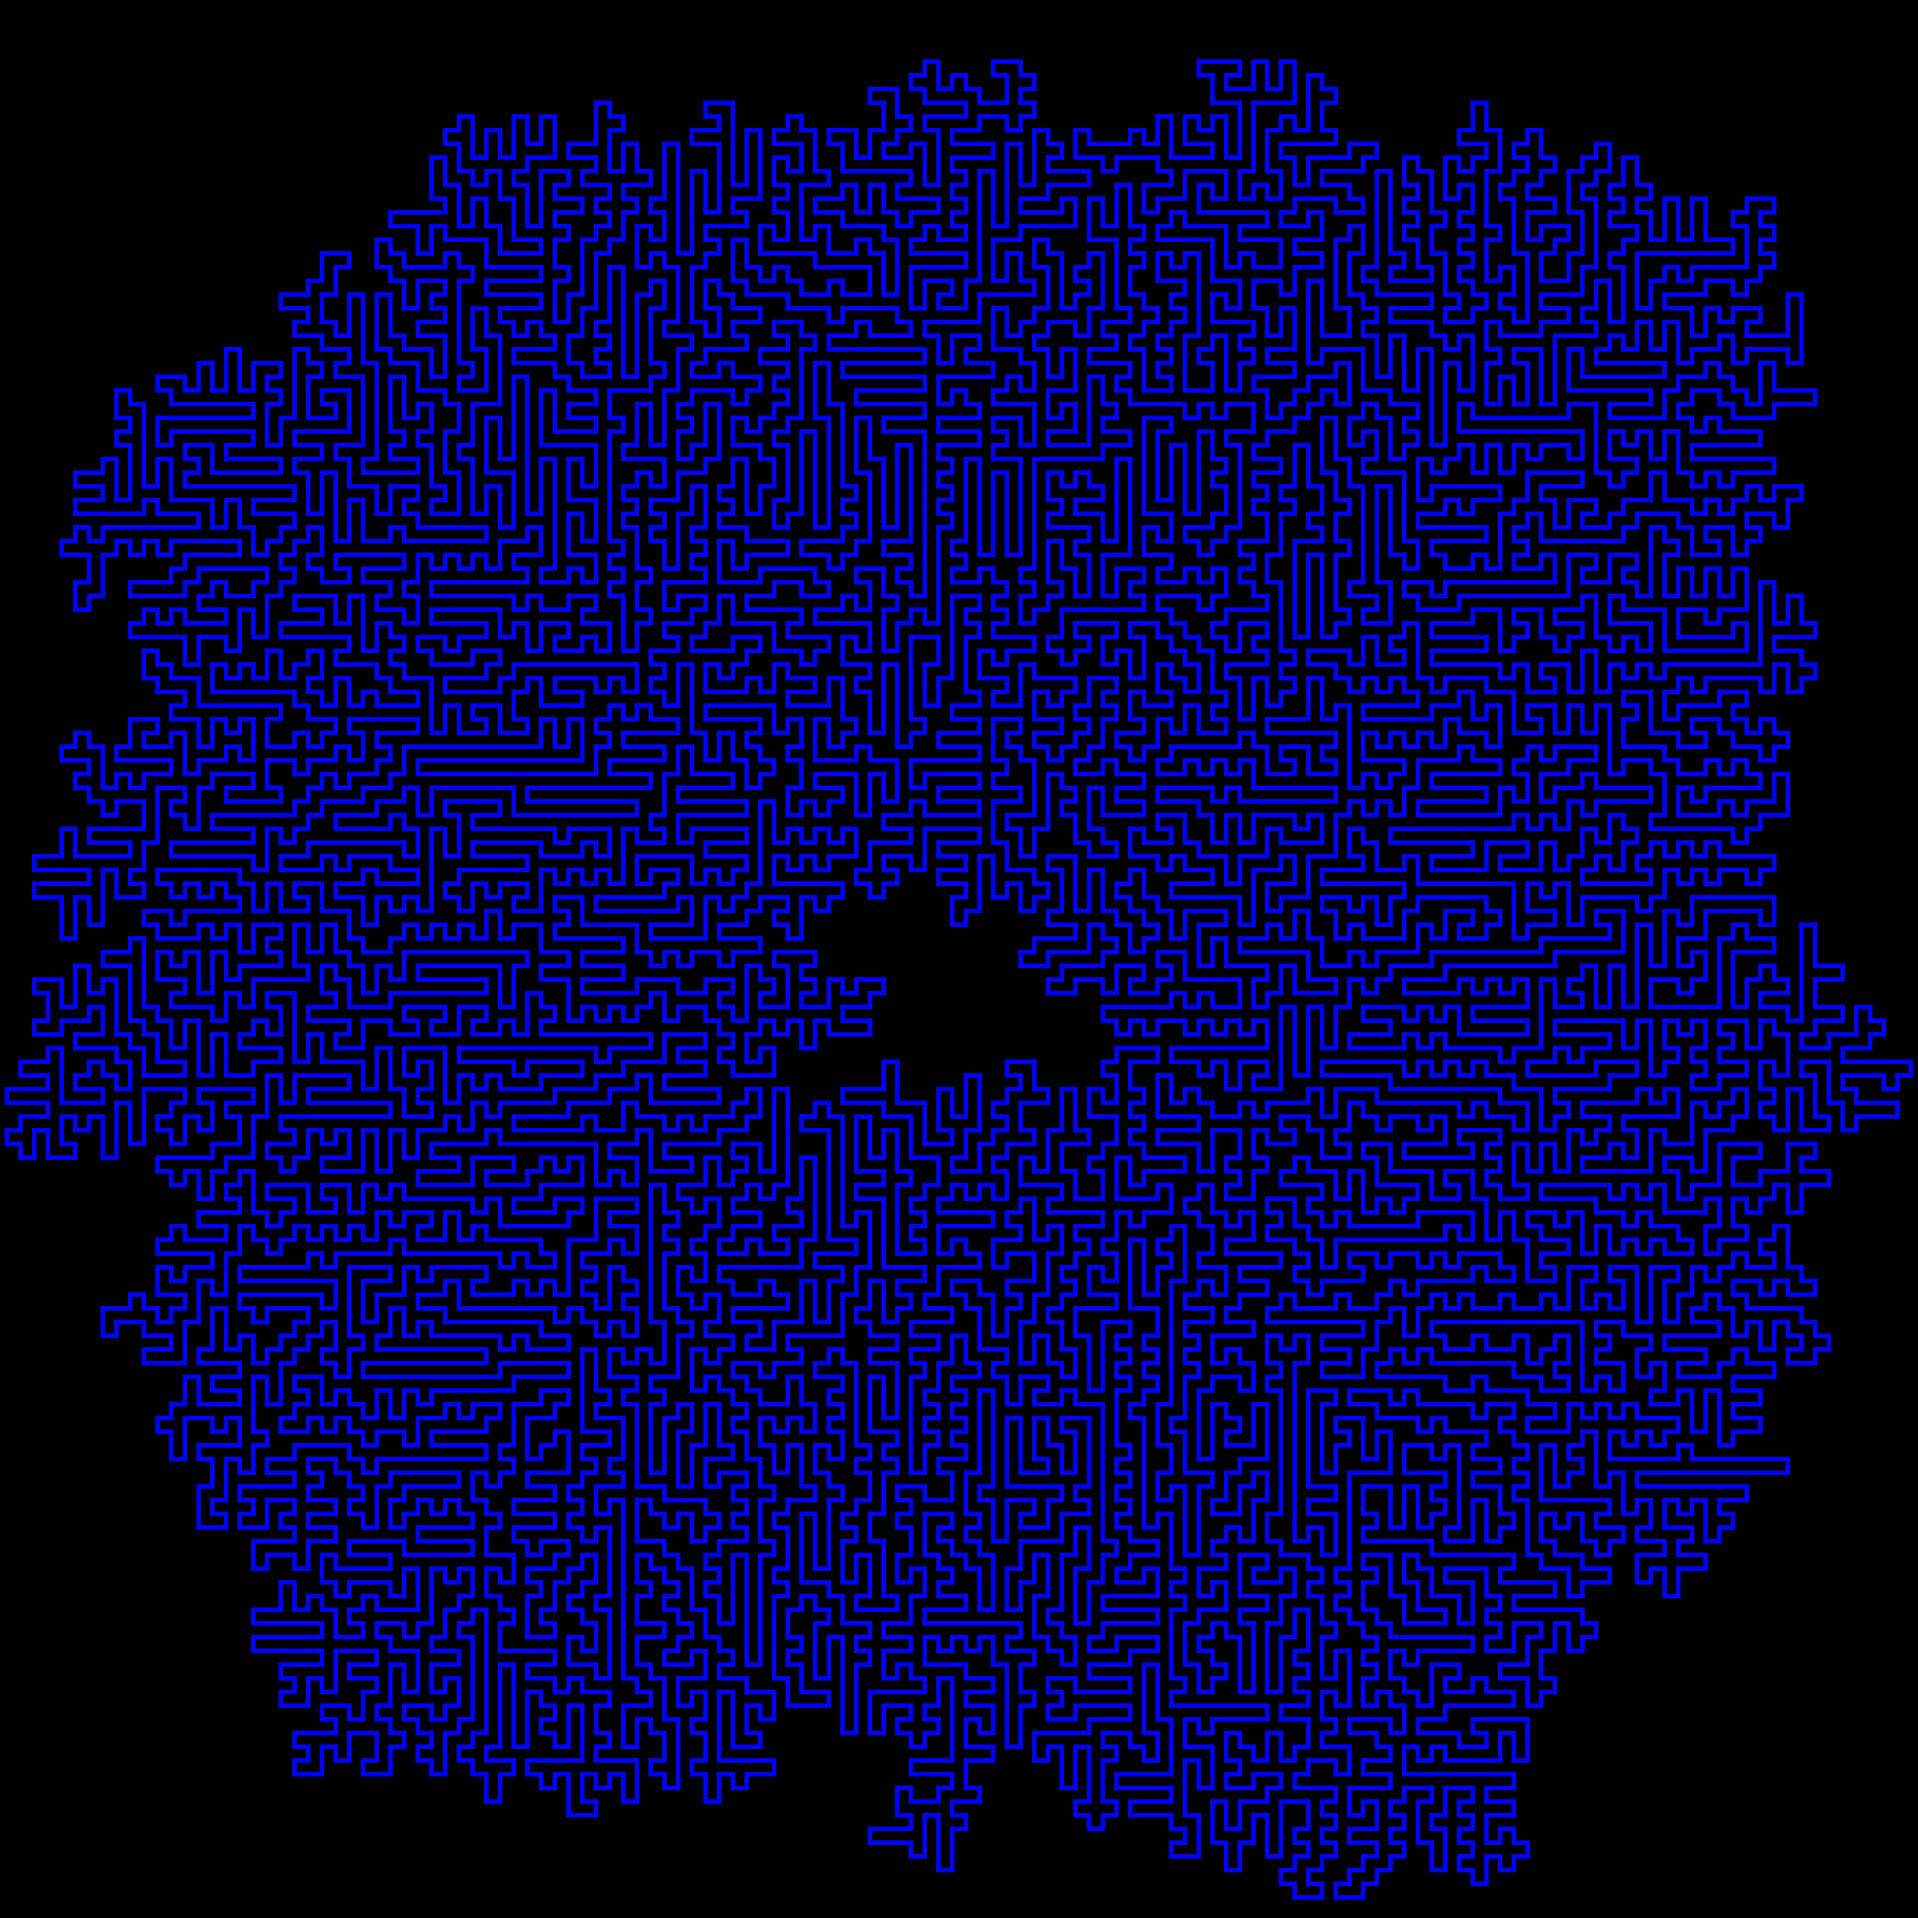
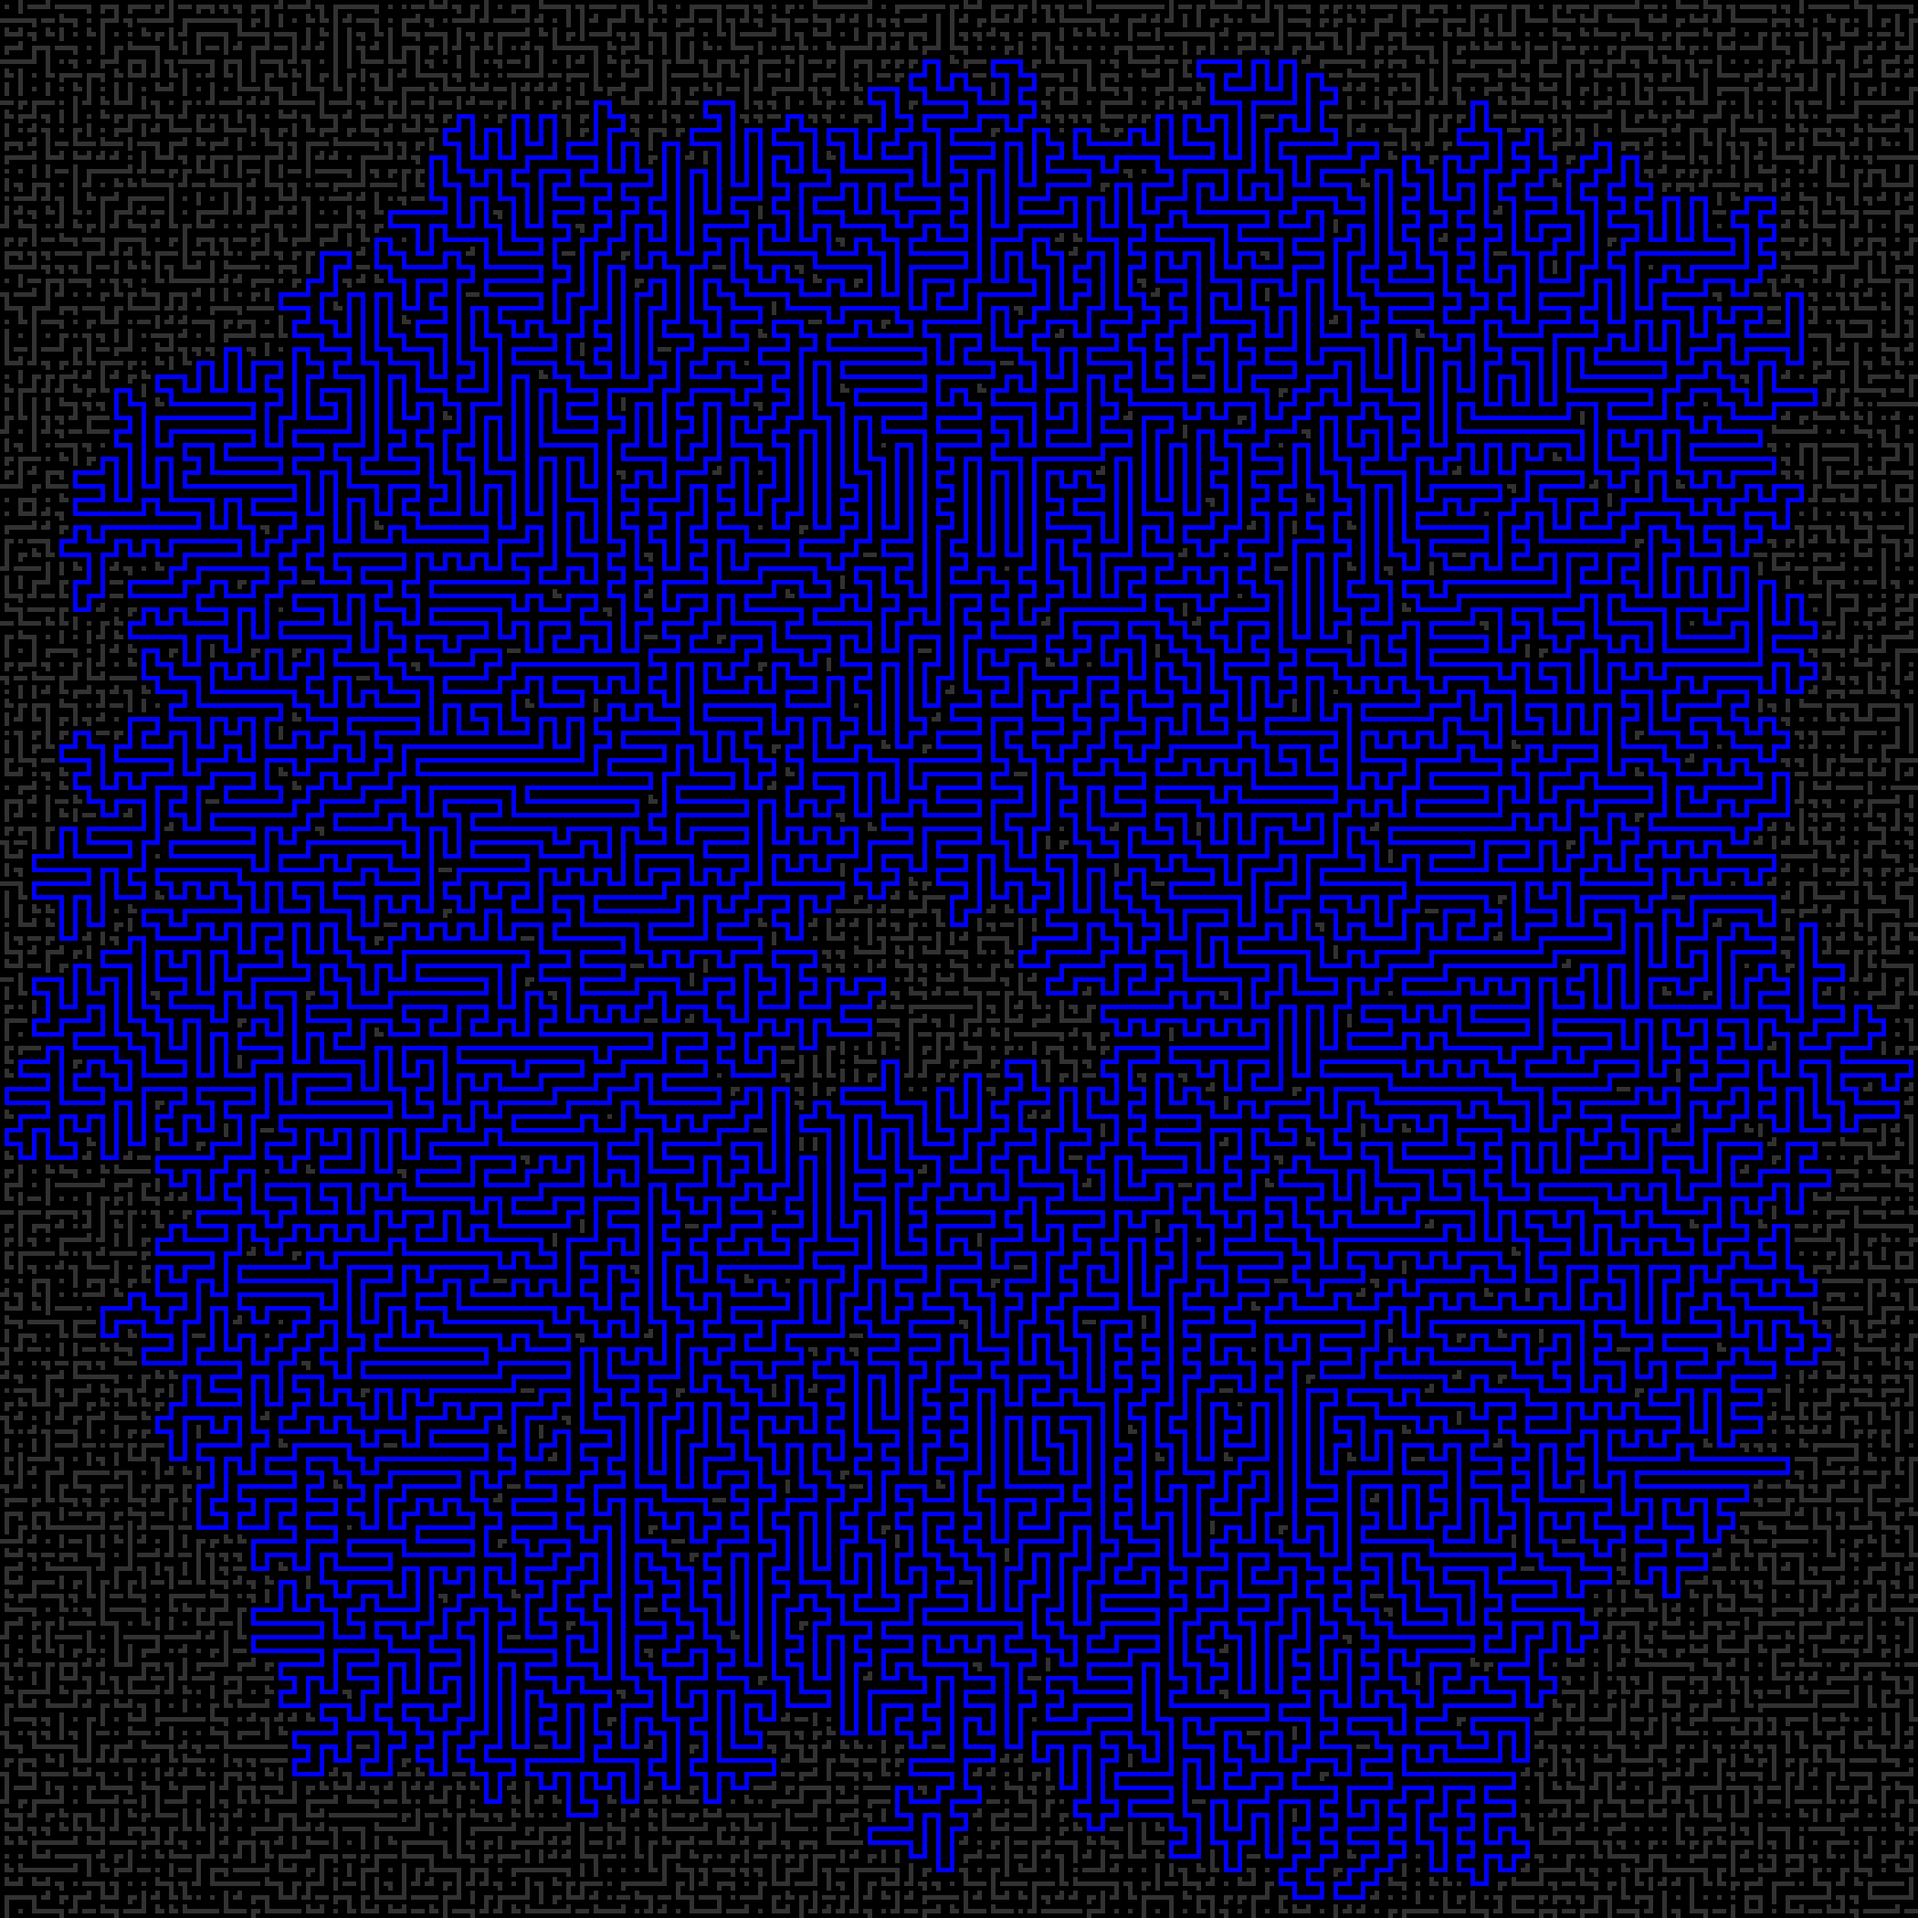
Change Day 10 part A PNG

Changed region(s): [[0.0, 0.0, 1.0, 1.0], [0.4024, 0.4643, 0.5881, 0.5881]]

diff --git a/python/day10.py b/python/day10.py
@@ -232,6 +232,11 @@ class Day10Solution(Aoc):
         size, startpos, grid = self.ParseInput()
         canvas, path = self.CalculatePath(size, startpos, grid)
 
+        for y in range(size[1]):
+            for x in range(size[0]):
+                if (x, y) not in path:
+                    self.DrawBlok(canvas, x, y, boxsize, grid[y][x], (50, 50, 50))
+
         pngname = "day10a.png"
         print(f"Saving {pngname}")
         canvas.save_PNG(pngname)
